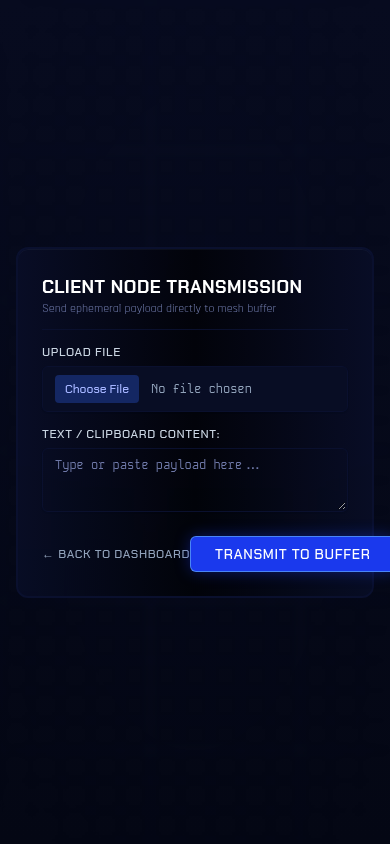
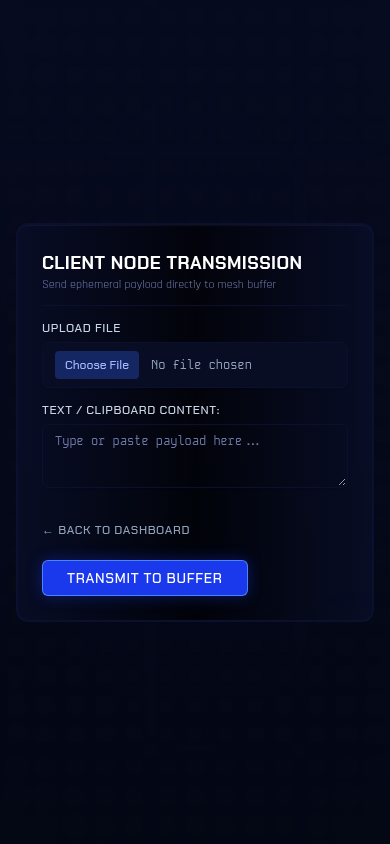
fix(ui): wrap client action row on narrow screens

Changed region(s): [[0.0923, 0.2773, 0.7692, 0.5545], [0.0923, 0.6161, 1.0, 0.7393]]

diff --git a/src/components/ClientView.jsx b/src/components/ClientView.jsx
@@ -164,7 +164,7 @@ export default function ClientView({ pushToast }) {
             />
           </div>
 
-          <div className="flex items-center justify-between pt-2">
+          <div className="flex flex-wrap items-center justify-between gap-3 pt-2">
             <Button variant="link" asChild className="px-0 font-chakra text-xs uppercase tracking-wider text-slate-400 hover:text-white">
               <Link to="/dashboard">&larr; Back to Dashboard</Link>
             </Button>
